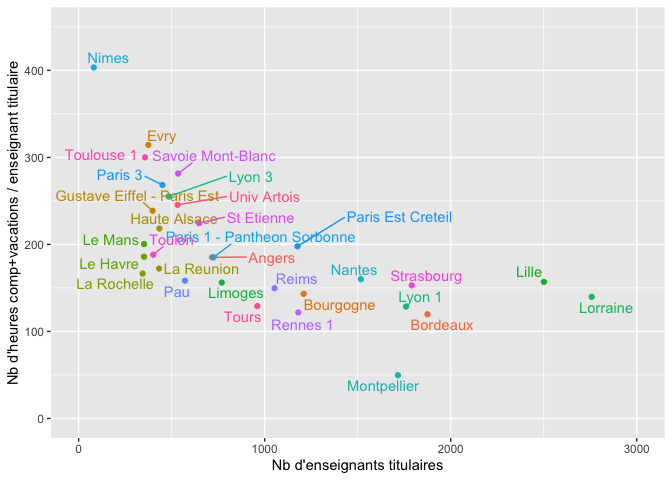
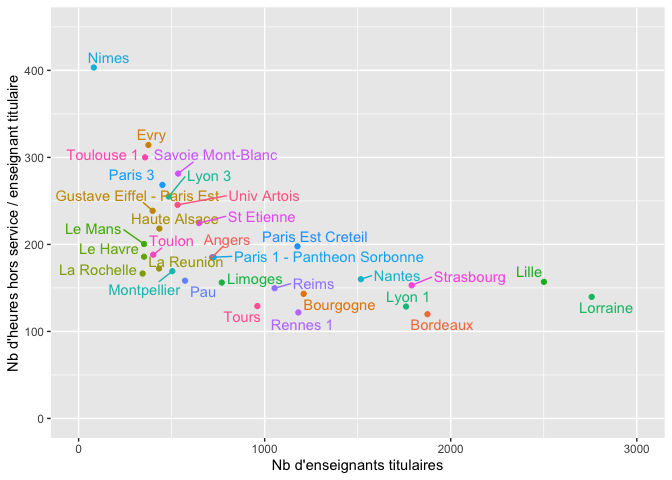
MaJ du jeu de donnees - Corrections cosmétiques

diff --git a/Vacations/Vacations.md b/Vacations/Vacations.md
@@ -3,16 +3,17 @@ Etude sur les vacations/heures complémentaires
 
 ## Quelques dataviz
 
-On commence par le nb d’heures hors service en fonction du nb de
-titulaires, en gardant les data à partir de 2014.
+On commence par le nb d’heures hors service (=heures complémentaires +
+vacations d’enseignement) en fonction du nb de titulaires, en gardant
+les data moyen à partir de 2014 et pour chaque établissement.
 
     ## `summarise()` ungrouping output (override with `.groups` argument)
 
 ![](Vacations_files/figure-gfm/hcompPtit-1.png)<!-- -->
 
-On continue en regardant la variation (en %) du nombre d’HComp par tous
-les établissements. Cette variation est obtenue, pour chaque
-établissement, en regardant l’écart à la moyenne sur la période
+On continue en regardant la variation (en %) du nombre d’heures hors
+service par tous les établissements. Cette variation est obtenue, pour
+chaque établissement, en regardant l’écart à la moyenne sur la période
 2014-2018. La transparence représente cette valeur moyenne (moins c’est
 transparent, plus le nombre d’heures moyen est élevé)
 
